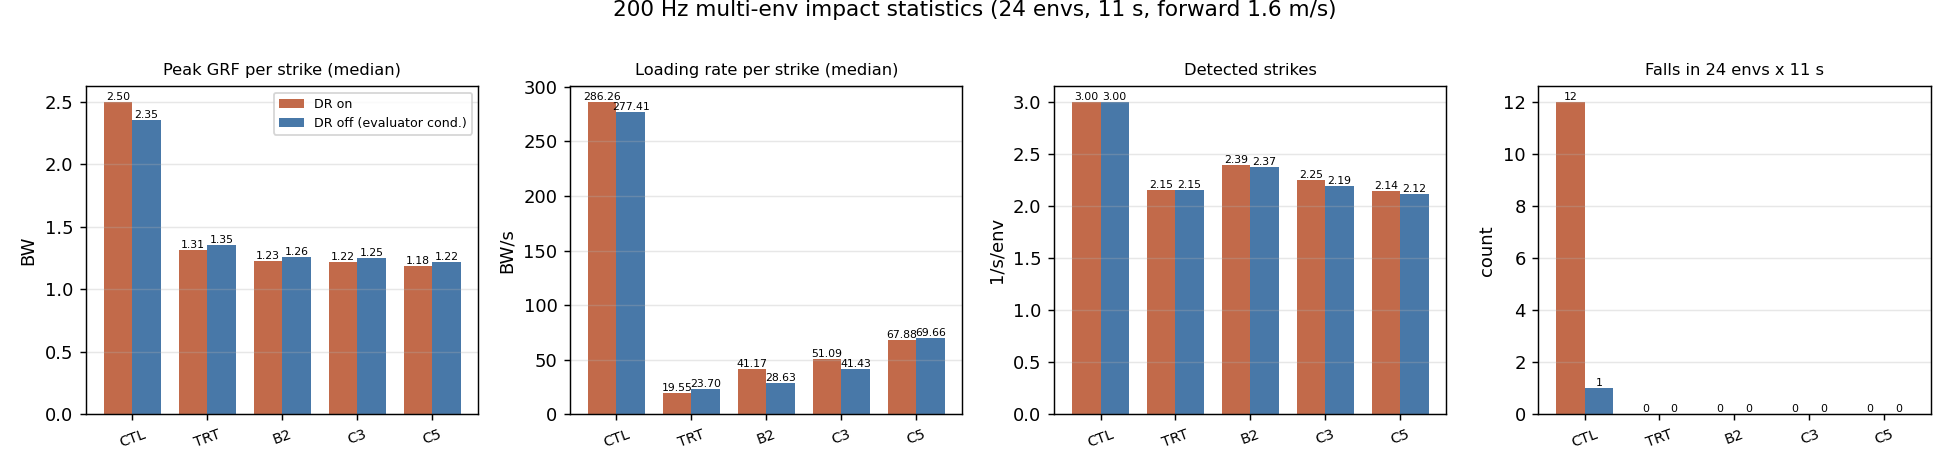
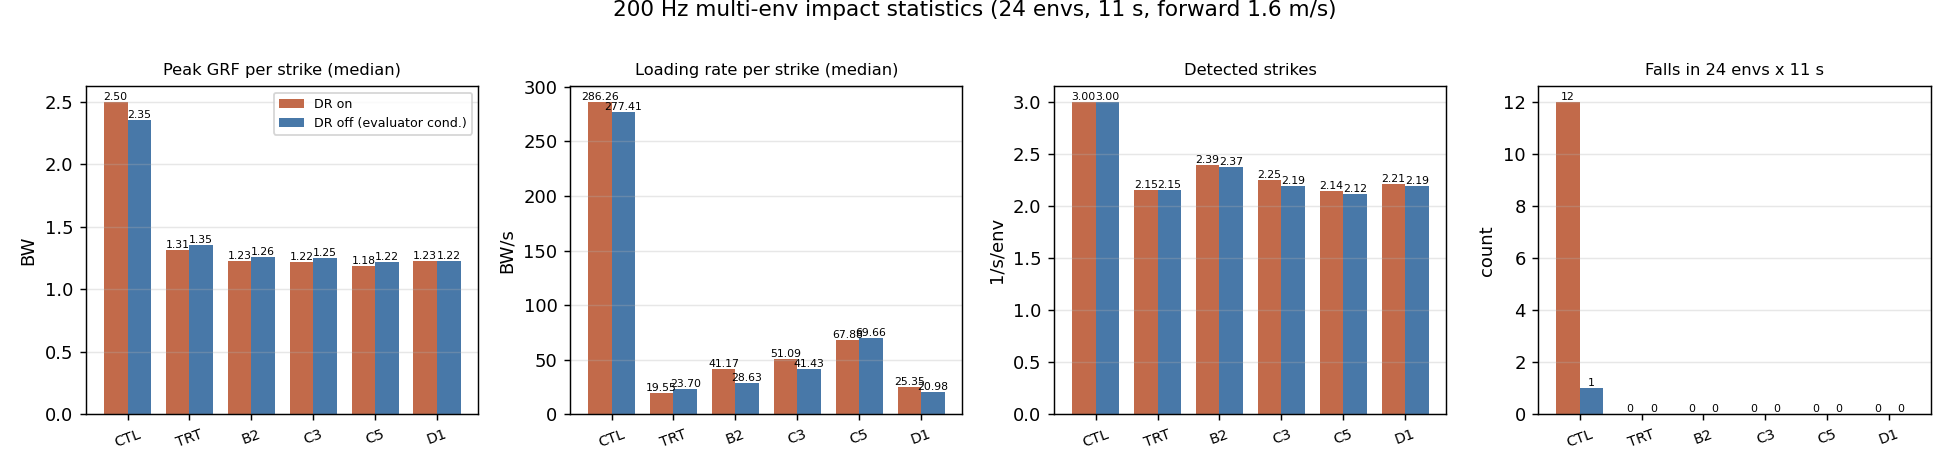
bundleD1_AB adopted: the only arm that lowers peak GRF and loading rate together
All three surviving changes at once (init pose mid-crouch, stance-knee extension
w-2.0 @25 deg, foot_impact_velocity halved), 16384 env, +800 iter from c3.

Evaluator, 32 episodes forward 1.6 m/s: peak GRF 1.093 BW (lowest of six arms),
stance knee 39.1 deg (lowest, -12.3 from the control's 51.4), tracking 0.133 with
the tightest episode spread of any arm (p10-p90 = 0.011). 32/32 success.

200 Hz x 24 envs: loading rate 21.0 BW/s - the lowest measured - at peak 1.224 BW.
C5 matches the peak but at 3.3x the loading rate (69.7); TRT matches the rate but
has the highest peak (1.353). D1 is the only arm that gets both. Zero falls under
DR, where the control falls 12 times.

The run note records what this actually varied: the loading-rate term was dead, so
MODE=both only halved foot_impact_velocity. Direction of the verdict is unchanged.

diff --git a/tools/robot_model/loop_tests/impact_multi_plot.py b/tools/robot_model/loop_tests/impact_multi_plot.py
@@ -11,9 +11,10 @@ matplotlib.use('Agg')
 import matplotlib.pyplot as plt
 
 D = '/home/syaro/pyg_fea/work/impact_multi'
-ARMS = ['bundleCTL_AB', 'bundleTRT_AB', 'bundleB2_AB', 'bundleC3_AB', 'bundleC5_AB']
+ARMS = ['bundleCTL_AB', 'bundleTRT_AB', 'bundleB2_AB', 'bundleC3_AB', 'bundleC5_AB', 'bundleD1_AB']
 LBL = {'bundleCTL_AB': 'CTL (baseline)', 'bundleTRT_AB': 'TRT (rate-only)',
-       'bundleB2_AB': 'B2 (both)', 'bundleC3_AB': 'C3 (init-mid)', 'bundleC5_AB': 'C5 (+knee ext)'}
+       'bundleB2_AB': 'B2 (both)', 'bundleC3_AB': 'C3 (init-mid)', 'bundleC5_AB': 'C5 (+knee ext)',
+       'bundleD1_AB': 'D1 (all three)'}
 have = [a for a in ARMS if os.path.exists(f'{D}/{a}_raw.npz')]
 
 fig, axes = plt.subplots(len(have), 1, figsize=(11, 2.0 * len(have)), sharex=True)

diff --git a/docs/66_experiment_registry.md b/docs/66_experiment_registry.md
@@ -118,6 +118,7 @@
 | **bundleCTL_AB / bundleTRT_AB** "human-landing-bundle ankle-AB (2026-08-26)" (1024 env, c3 `model_31999` +800 iter → 32798, ✅완주) [[2026-08-26_bundleCTL_AB]] [[2026-08-26_bundleTRT_AB]] | 처치군만 3변인 동시: 초기자세 knee −38.4→−20.05°(`PYG_INIT_MID`) + base_height deadband 앵커 + soft-landing 접지속도→**하중률**(`MODE=rate`, 접지속도 항 제거) | **기각**: 하중률 46.2→**84.5 BW/s(83 % 악화)**, 접지속도 0.873→**1.589**, **stride/s 1.40→0.93(−34 %) = 예측한 "발 안 떼기" 해킹**(duty는 0.57로 동일 — air_time만 봤으면 놓침). 성공률 100 %·추종 0.143 정상. 초기자세는 접지무릎 −47.9→**−42.9°(+5°)** 개선 | ⚠ 교란: 1024 env(본런의 1/16 배치)라 **대조군도 c3 대비 무릎 −17° 악화** → TRT vs CTL 비교로만 유효. 후속 `bundleB2_AB`(MODE=both) / `bundleB3_AB`(초기자세 단독) 진행 중. 근거 [[2026-08-26_human_landing_bundle]] §6 ★**2026-08-26 정정(평가기 32 ep 재측정)**: 여기 기록된 기각 근거는 **단일 롤아웃**이라 무효다. 재측정 결과 `MODE=rate`(대체형)만 기각 유지(하중률 15.78 BW/s로 최악), **`MODE=both`(병행형)는 기각 철회 — 추종 0.117·하중률 8.78·stride 2.83 전부 최고**. 교훈은 "하중률 항이 나쁘다"가 아니라 **"검증된 접지속도 항을 대체하면 안 된다"**로 바뀐다. [[2026-08-26_human_landing_bundle]] §10 |
 | **bundleB2_AB / bundleB3_AB** "landing-bundle 원인분리 (2026-08-26)" (1024 env, c3 `model_31999` +800 → 32798, ✅완주 — kill 후 와치독 자동 resume) [[2026-08-26_bundleB2_AB]] [[2026-08-26_bundleB3_AB]] | B2 = INIT_MID+앵커+**MODE=both**(접지속도 절반가중 유지) / B3 = **INIT_MID 단독** | B2: 접지속도 1.589→**1.171** 회복했으나 **하중률 79.7**(대조 46.2)로 여전히 목표 미달 → 하중률 항이 자기 목표를 못 이룬다. B3 측정 중 | 🔄 초기자세 컨벤션 조사 완료: 우리 −38.4°는 **mjlab G1 KNEES_BENT 상속**, 곧은 군집은 G1 17–24°·T1 22.9° → **−20°는 표준 대역**. mjlab엔 base_height 보상 부재(G1 −10·T1 −20) [[2026-08-26_init_pose_conventions]] ★**2026-08-26 정정**: B2의 "하중률 79.7 목표 미달"은 **단일 롤아웃 200 Hz** 수치였다. 평가기 32 ep(50 Hz)에서 B2 하중률 **8.78 BW/s로 전 arm 최저**(대조군 9.92) → **B2 채택**. 두 측정의 우열이 뒤집혀 다중 env 200 Hz 도구(`impact_probe_multi.py`)로 재확정 중 |
 | **bundleC3_AB / bundleC5_AB** "landing 세대2 — 초기자세 채택 + 무릎 직접항 (2026-08-26)" (**16384 env**, c3 `model_31999` +800 → 32799, 🔄) [[2026-08-26_bundleC3_AB]] [[2026-08-26_bundleC5_AB]] | C3 = `PYG_INIT_MID` 단독(B3의 본배치 확인) / C5 = INIT_MID + **`stance_knee_extension`**(신설, 입각 접촉게이트·스윙 무간섭, target 25°, w −2.0) | **완주**. C5 `stance_knee_deg` **24.6~25.5°**(목표 수렴), 기여 −0.037, reward −2 %. 평가기 32 ep: 전진 오차 **C3 0.121 / C5 0.141**, 둘 다 **32/32 성공**(대조군 0.161보다 낫다). C5의 대가 = 접지속도 1.356→1.826·피크 1.061→1.197 | ★ **방법론 정정**: C3(하중률 항 없음)가 B2와 같은 duty 0.77·stride 0.80을 내 → 단일 롤아웃 지표는 판정 불가, 평가기 32 ep만 근거([[2026-08-26_human_landing_bundle]] §9). 앞선 세대에서 **base_height 앵커는 무력 판명**(base 0.8824가 deadband 안, 기여 −0.0019 — 높이·무릎이 힙피치로 분리). 근거 [[2026-08-26_human_landing_bundle]] §8, 선례 arXiv:2505.20619 ★확정: **INIT_MID 채택**(무릎 −4.9°·추종 0.163→0.119), **KNEE_EXT 조건부 채택**(무릎 −6.1° 추가·추종 +0.023). 레시피 정본 [[103_v2_training_plan]] §4a |
+| ★**bundleD1_AB** "landing 세대3 — 채택 3안 동시 (2026-08-26)" (16384 env, c3 `model_31999` +800 → 32798, ✅완주 39분 58초) [[2026-08-26_bundleD1_AB]] | `PYG_INIT_MID` + `PYG_KNEE_EXT`(w −2.0 @25°) + `PYG_SOFT_LANDING_MODE=half`(=`foot_impact_velocity` ½). 대조 = C3(초기자세 단독)·CTL(무변경), 같은 체크포인트·배치·iter | **전 arm 최고**. 학습: reward **86.34**(C3 84.95·CTL 77.63), `error_vel_xy_mean` **0.4865**(최저). 평가기 32 ep: 피크 GRF **1.093 BW**(최저), 입각 무릎 **39.1°**(최저, CTL 51.4°에서 −12.3°), 오차 0.133(에피소드 폭 **0.011**로 최협), 32/32 성공. 200 Hz × 24 env: 하중률 **21.0 BW/s(전 arm 최저)** + 피크 1.224 BW(최저권) — **두 축 동시 달성은 D1뿐**(C5는 피크만, TRT는 하중률만). DR하 낙상 0 | ★**레시피 확정** → [[103_v2_training_plan]] §4a. ⚠**이 런이 실제로 시험한 것은 하중률 항이 아니다**: `foot_loading_rate`가 접촉력 z 부호 오독으로 **세 런(TRT·B2·D1) 내내 정확히 0** — `both`가 한 일은 `foot_impact_velocity` 가중치 ½뿐이었다([[2026-08-26_human_landing_bundle]] §12). 부호 수정 + 가중치 0.002→1e-4 재교정(살아나니 스텝당 −0.664 = 보상예산의 8배) 완료, 항 자체는 **미시험**. 후속 RP 이식 `bundleCTL_RP`/`bundleD1_RP` 가동 중 |
 | **ankleAB_c2 → c2r** "flat-2.5max gen21-bundle curriculum-dr+push ankle-AB-loop (2026-08-23)" (`21-02-10` → OOM iter1252 → `23-17-35_ankleAB_c2r` resume model_1200, ⏸ iter 4400에서 중단 → c3로 계승) [[2026-08-23_ankleAB_c2]] | vs gen21_bent_p2: 프린트 질량·실측 모터(RS04 J .0163/b .0095/tc .269, RS03 .0153/.0223/.285)·T-N 곡선·**폐루프 발목(크랭크 RS03 ×2, Kp 22.3/Kd 1.41/60 N·m)**·단일 런 커리큘럼(DR 10k→20k, vx 단계 2.5@16k)·16384 env·상체 weld+팔 15° 외전 고정·hip_yaw ±45° | iter 610: reward 109·fell 0; iter 1200 분석(93 §5b): 보행 발목 17° 사용·토크 12.8 N·m·GRFc 1.39 BW, **정지 잔떨림+0.4 Hz 스웨이**; 최신 스냅샷 iter 2659(08-24 01:22): reward 114.1(50avg 114.4)·fell 0.000·err_vel_xy 0.509·thermal 4.02 | 🔄 CONTINUE (4k 게이트서 정지 떨림 재확인) |
 | (분석) 폐루프 구속 강성 solimp 전례·변인통제 [[94_loop_constraint_stiffness]] (2026-08-24) | 같은 AB 정책, 구속만 0.9→0.9999 5단계 | 튐 |Δτ| p99: 기본 18.0 / 0.99–0.9999 11–12 N·m, 폐루프 오차 8.4→0.08 mm | 0.999 유지; 학습 A/B(0.95/0.99·solref 5 ms, BRUCE 데드밴드)는 본런 후 |
 | **ankleRP_c2** "flat-2.5max gen21-bundle curriculum-dr+push ankle-RP-serial (2026-08-23)" (`2026-08-23_21-02-18`, ⏸ iter 3400에서 중단 → c3로 계승) [[2026-08-23_ankleRP_c2]] | ankleAB_c2와 **단일변인 = 발목 기구**: 직렬 pitch/roll(Kp 28.5/Kd 1.81) + 루프 자코비안 크랭크공간 클램프(±60, T-N) + 반영 관성/마찰. env.yaml diff = 발목 항목만(launch 직후 확인) | iter 610: reward 113·fell 0; iter 1200 분석: 발목 10° 사용·**bang-bang 목표(−40↔+35°) PD 포화 토크 스파이크**·GRFc 1.51 BW; 최신 스냅샷 iter 3433(08-24 02:22): reward 113.5(50avg 113.8)·fell 0.000·err_vel_xy 0.509·thermal 3.56 | 🔄 CONTINUE |

diff --git a/docs/experiments/2026-08-26_bundleD1_AB.md b/docs/experiments/2026-08-26_bundleD1_AB.md
@@ -1,0 +1,81 @@
+# bundleD1_AB — 채택 3안 동시 시험 (2026-08-26)
+
+> *한 줄*: 번들 시험에서 하나씩 이겼던 세 변경을 **한꺼번에** 넣고 c3에서 +800 iter 더 돌렸다.
+> 학습은 이겼다(Mean reward 86.3 vs C3 85.0 vs CTL 77.6). 다만 **셋 중 하나는 내가 생각한 그 변경이 아니었다**(§4).
+
+| | |
+|---|---|
+| 런 | `logs/rsl_rl/pygmalion_velocity/2026-08-26_15-02-37_bundleD1_AB` |
+| 계보 | `ankleAB_c3` `model_31999` → +800 iter → **`model_32798`** (16384 env, 39분 58초) |
+| 대조 | `bundleC3_AB`(초기자세 단독) / `bundleCTL_AB`(무변경) — 같은 체크포인트·같은 배치·같은 iter |
+| 변인 | `PYG_INIT_MID=1` + `PYG_KNEE_EXT=1`(w −2.0 @25°) + `PYG_SOFT_LANDING_MODE=both` |
+| 근거 | [[2026-08-26_human_landing_bundle]] §10–§12 · 레시피 [[103_v2_training_plan]] §4a |
+
+## §1 무엇을 바꿨나
+1. **`PYG_INIT_MID`** — 초기자세 무릎 −38.4° → −20.05°, 힙피치 −0.32 → −0.175 rad.
+   `use_default_offset=True`라 **기본자세가 곧 액션의 원점**이다. 원점을 인간형 착지 쪽으로 옮긴다.
+   부수 효과로 리셋 시 발바닥이 바닥 위 **47 mm → −10 mm**가 되어 리셋 낙하 충격이 사라진다.
+2. **`PYG_KNEE_EXT`** — 입각(접촉 게이트) 무릎이 25°를 넘는 만큼만 제곱 벌점, w −2.0. 스윙은 건드리지 않는다.
+3. **`PYG_SOFT_LANDING_MODE=both`** — 의도는 "접지속도 항 유지 + 하중률 항 병행"이었다. **§4 참조**.
+
+## §2 학습 지표 (텐서보드 최종값)
+| | CTL | C3 | C5 | **D1** |
+|---|---|---|---|---|
+| Mean reward | 77.63 | 84.95 | 83.01 | **86.34** |
+| `error_vel_xy_mean` | 0.4956 | 0.4911 | 0.5364 | **0.4865** |
+| `error_vel_xy_steady` | 0.3669 | 0.3667 | 0.4064 | **0.3598** |
+| `stance_knee_deg` | — | — | 24.58 | 25.87 |
+| `foot_impact_velocity` | −0.0751 | −0.0571 | — | **−0.0290** |
+| `stance_knee_extension` | — | — | −0.0302 | −0.0334 |
+| `foot_loading_rate` | — | — | — | **0.00000** ⚠ |
+
+D1이 **보상·추종 두 축 모두에서 최고**다. C5가 무릎항 때문에 추종을 잃었던 것(0.5364)과 달리
+D1은 무릎항을 넣고도 추종이 가장 좋다 — 초기자세와 함께 쓰면 무릎항의 대가가 사라진다.
+
+## §3 판정 — 평가기 32 ep + 200 Hz 다중 env
+계측 대역을 나눠 쟀다: **느린 양(추종·duty·stride·자세) = 평가기 32 ep**, **충격·하중률 = 200 Hz × 24 env**
+(50 Hz 평가기는 폭 15–25 ms의 착지 스파이크를 에일리어싱한다, [[2026-08-26_human_landing_bundle]] §11c).
+
+### 3a. 평가기 32 에피소드 (전진 1.6 m/s, 중앙값, p10–p90)
+| | CTL | C3 | C5 | B2 | **D1** |
+|---|---|---|---|---|---|
+| duty | 0.557 | 0.552 | 0.547 | 0.557 | 0.554 |
+| stride/s | 2.556 | 2.50 | 2.44 | **2.83** | 2.556 |
+| **피크 GRF** (BW) | 1.227 | 1.126 | 1.126 | 1.135 | **1.093** |
+| 하중률 (BW/s, *50 Hz라 참고값*) | 10.25 | 14.02 | 14.53 | 8.78 | 13.48 |
+| **입각 무릎** | 51.4° | 46.2° | 40.1° | 51.8° | **39.1°** |
+| 전진 오차 | 0.163 | 0.119 | 0.142 | **0.117** | 0.133 |
+| 에피소드 폭(오차 p10–p90) | 0.023 | — | — | — | **0.011** |
+
+### 3b. 200 Hz × 24 env (DR off = 평가기 조건 / DR on = 강건성)
+| | CTL | TRT | B2 | C3 | C5 | **D1** |
+|---|---|---|---|---|---|---|
+| 피크 GRF (BW) | 2.353 | 1.353 | 1.261 | 1.250 | **1.222** | 1.224 |
+| **하중률** (BW/s) | 277.4 | 23.7 | 28.6 | 41.4 | 69.7 | **21.0** |
+| 스트라이크/s/env | 3.00 | 2.15 | 2.37 | 2.19 | 2.12 | 2.19 |
+| 낙상 (DR **on**, 24 env × 11 s) | **12** | 0 | 0 | 0 | 0 | **0** |
+
+![200 Hz 충격 통계](../img/2026-08-26_impact_multi_summary.png)
+
+### 3c. 판정: **채택**
+- **하중률이 전 arm 최저(21.0 BW/s)이면서 피크도 최저권(1.224 BW)**이다. C5는 피크는 같은 수준이지만 하중률이 **3.3배**(69.7),
+  TRT는 하중률은 비슷하지만 피크가 가장 높다(1.353). **D1만 두 축을 동시에 잡았다.**
+- 입각 무릎 **39.1°**로 가장 곧다(대조군 51.4°에서 **−12.3°**). C5(40.1°)보다도 낫고, C5가 치른 추종 대가(0.142)를 치르지 않는다(0.133).
+- 에피소드 간 오차 폭이 **0.011**로 가장 좁다 = 명령·초기조건에 대한 재현성이 가장 좋다.
+- 남는 약점: 추종 오차 0.133이 B2(0.117)·C3(0.119)보다 크다. 무릎항의 잔여 대가로 보인다.
+  **자세·충격이 목표면 D1, 순수 추종이 목표면 C3**가 낫다 — 이 프로젝트의 목표(하드웨어 하중)는 전자다.
+
+⇒ **레시피 확정**: `PYG_INIT_MID=1` + `PYG_KNEE_EXT=1`(w −2.0 @25°) + `PYG_SOFT_LANDING_MODE=half`.
+RP arm 이식 시험(`bundleCTL_RP` / `bundleD1_RP`, 16384 env, +800 iter) 착수함.
+
+## §4 ⚠ 이 런이 실제로 시험한 것
+`Episode_Reward/foot_loading_rate`가 **800 iter 내내 정확히 0**이다. 하중률 항은 접촉력 z의 **부호를 거꾸로 읽어**
+터치다운을 한 번도 검출하지 못했다(전문: [[2026-08-26_human_landing_bundle]] §12).
+`both` 모드가 실제로 한 일은 **`foot_impact_velocity` 가중치를 절반으로 줄인 것**뿐이다(−0.0571 → −0.0290).
+
+⇒ **D1이 시험한 조합 = 초기자세 중간값 + 입각 무릎 신전항 + 접지속도 벌점 ½.**
+결과는 그대로 유효하지만 이름을 바꿔 적어야 한다. 이 설정을 재현하는 플래그로 **`PYG_SOFT_LANDING_MODE=half`**를 신설했다.
+하중률 항은 부호 수정 + 가중치 재교정(0.002 → 1e-4) 후 **아직 한 번도 학습에서 돌지 않았다**.
+
+## §R 참조
+[[2026-08-26_human_landing_bundle]] · [[103_v2_training_plan]] · [[104_init_pose_gait_style]] · [[2026-08-26_bundleC3_AB]] · [[2026-08-26_bundleC5_AB]]
